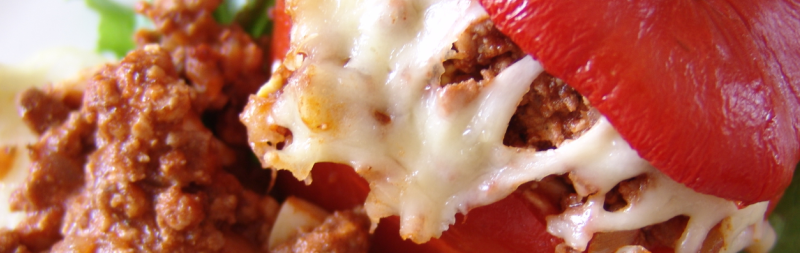
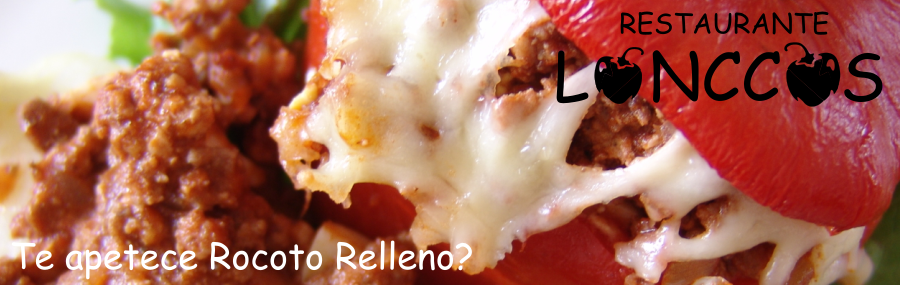
mejorada

Changed region(s): [[0.5938, 0.0277, 1.0, 0.3874], [0.0, 0.83, 0.5312, 0.9684]]

diff --git a/war/css/inicio.css b/war/css/inicio.css
@@ -2,6 +2,12 @@ body {
 	font-family: Comic Sans MS, Arial;
 	cursor: url(http://cur.cursors-4u.net/smilies/smi-3/smi267.png), auto;
 }
+#sesion {
+	background-color: #B5954A;
+	width: 200px;
+	text-align: center;
+	border-radius: 10px;
+}
 #titulo {
 	padding-top: 4px;
 	border-radius: 10px;
@@ -15,7 +21,7 @@ body {
 	margin-bottom: 5px;
 }
 .cambio {
-	width: 100%;
+	width: 99%;
 	border-radius: 10px;
 }
 #titulo_logo {
@@ -80,4 +86,9 @@ body {
 
 #cargando {
 	width: 30%;
+}
+#exito {
+	margin-top: 5%;
+	width: 10%;
+	margin-bottom: 5%;
 }
